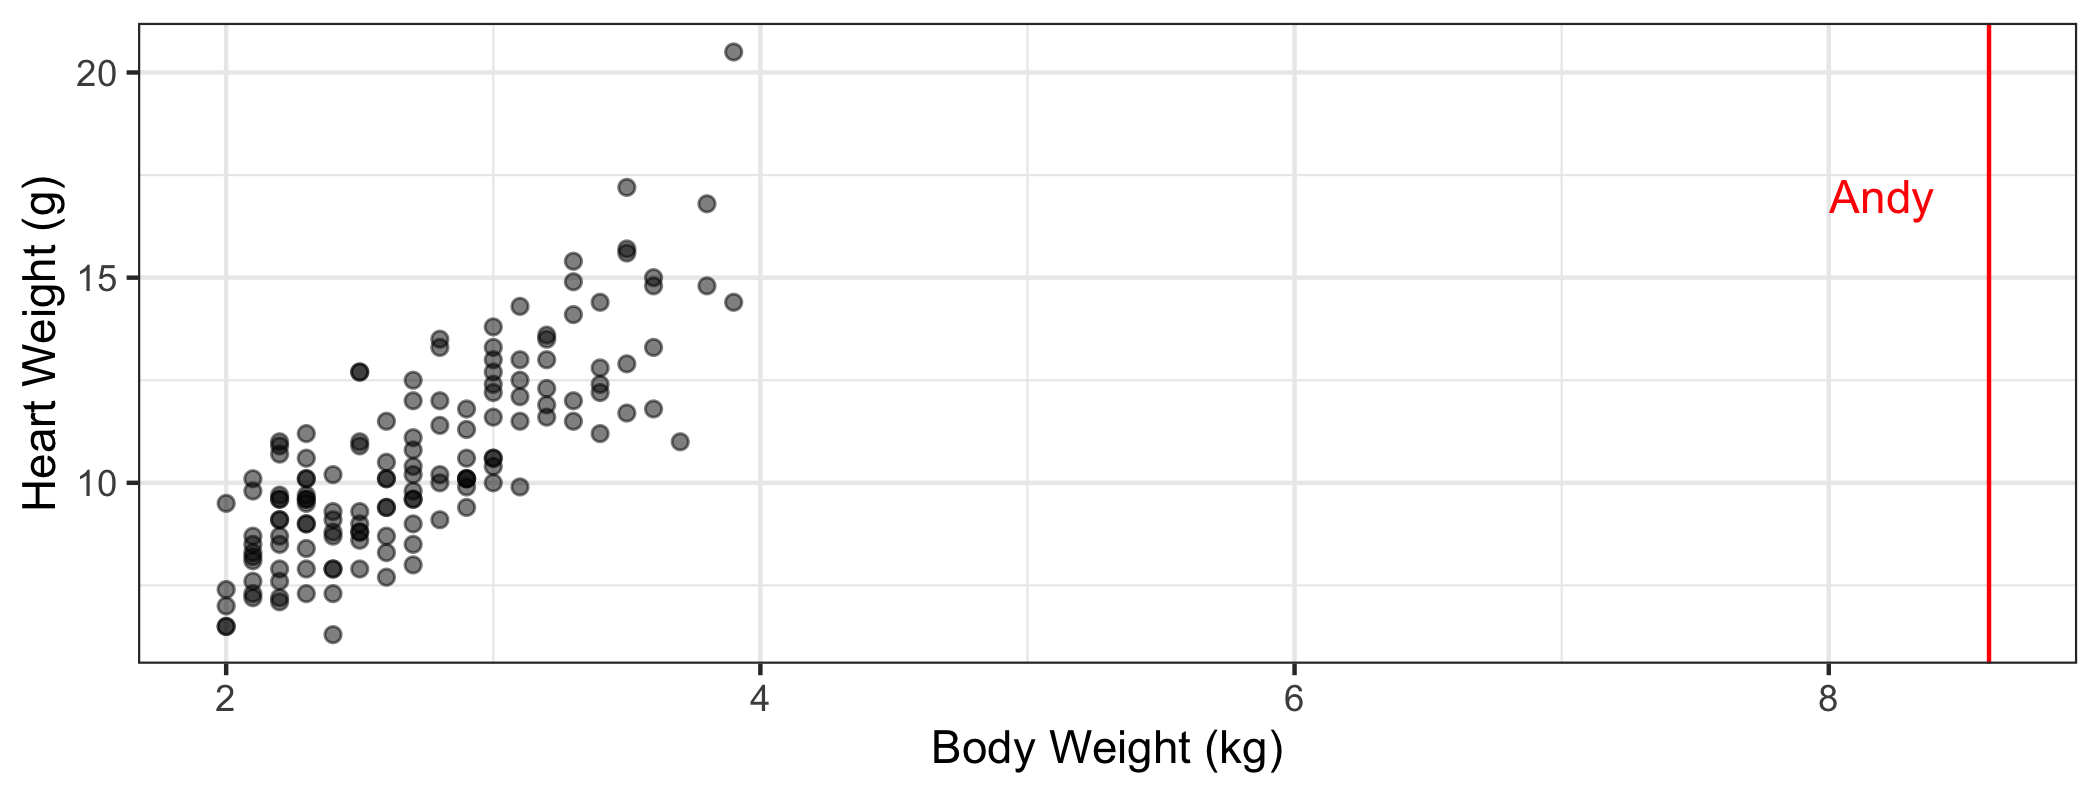
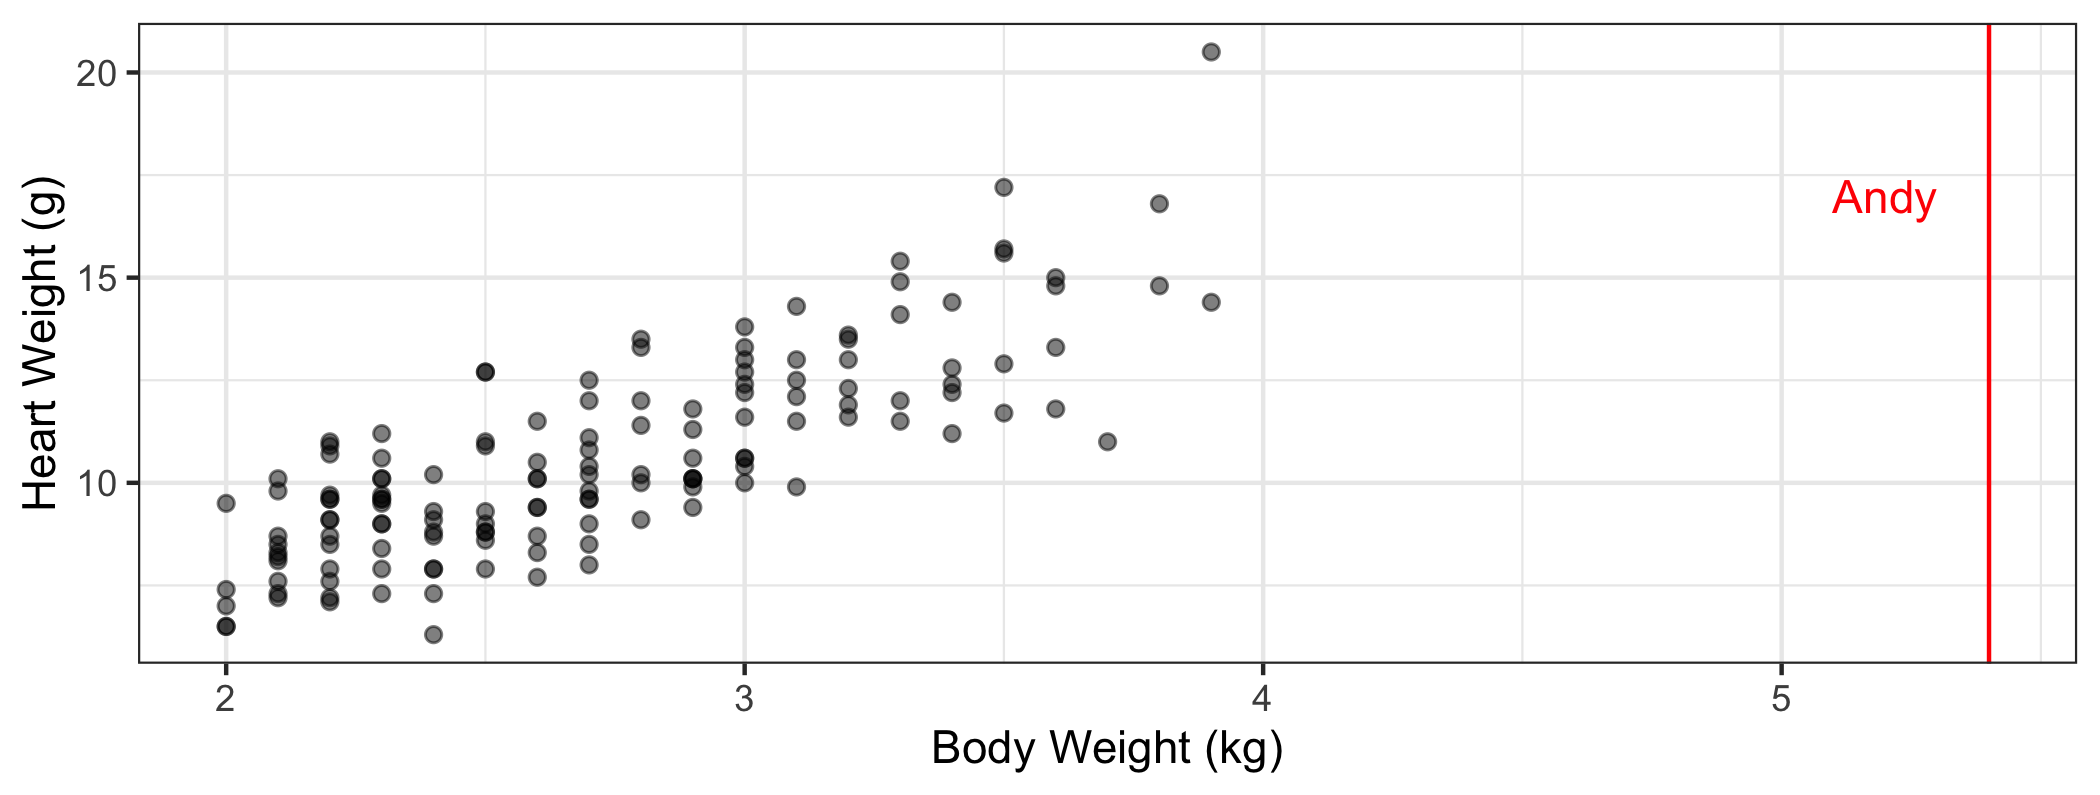
edits.

diff --git a/slr/slr-prediction.html b/slr/slr-prediction.html
@@ -46,7 +46,7 @@ class: title-slide
 
 ## Cats data
 
-The data set contains the **heart weight** (.vocab[`Hwt`]) and **body weight** (.vocab[`Bwt`]) for 144 domestic cats.
+The data set contains the **heart weight** (.term[Hwt]) and **body weight** (.term[Bwt]) for 144 domestic cats.
 
 &lt;img src="slr-prediction_files/figure-html/unnamed-chunk-2-1.png" style="display: block; margin: auto;" /&gt;
 
@@ -195,6 +195,7 @@ The 95% .vocab[confidence interval] for the .vocab[*mean*] heart weight of cats 
   &lt;/tr&gt;
 &lt;/tbody&gt;
 &lt;/table&gt;
+&lt;br&gt; 
 
 --
 
@@ -223,6 +224,7 @@ The 95% .vocab[prediction interval] for an .vocab[*individual*] cat that weighs 
   &lt;/tr&gt;
 &lt;/tbody&gt;
 &lt;/table&gt;
+&lt;br&gt; 
 
 --
 
@@ -253,7 +255,7 @@ If we extrapolate, the predictions are unreliable since we can't be sure the sam
 ## Predict Andy's heart weight?
 
 .pull-left[
-My cat Andy weighs about 8.60 kg (10 lbs).
+My cat Andy weighs about 5.44 kg (12 lbs).
 
 &lt;br&gt;
 
@@ -285,13 +287,15 @@ We should **&lt;u&gt;not&lt;/u&gt;** use this model to predict Andy's heart weig
 
 --
 
-- Predicted the repsonse given a value of the predictor variable
+- Predicted the response given a value of the predictor variable
 
 --
 
 - Used intervals to quantify the uncertainty in the predicted values 
     - Confidence interval for the mean response
     - Prediction interval for individual response
+
+--
 
 - Discussed why extrapolation is unwise when using a model for prediction
 ---

diff --git a/slr/slides.css b/slr/slides.css
@@ -58,7 +58,6 @@ a, a > code {
 }
 .remark-code-line-highlighted { 
   background-color: #ffff88; 
-  
 }
 
 .inverse {
@@ -190,6 +189,15 @@ thead, tfoot, tr:nth-child(even) { background: #eee }
   color: #aa008e;
   font-weight: bold;
 }
+
+/*code to remark-code-line-highlight */
+
+.term {
+    font-family: 'Source Code Pro', 'Lucida Console', Monaco, monospace;
+    color: #aa008e;
+    font-weight: bold;
+}
+
 
 /*Words to emphasize, but not necessarily vocab.*/
 .emph {
